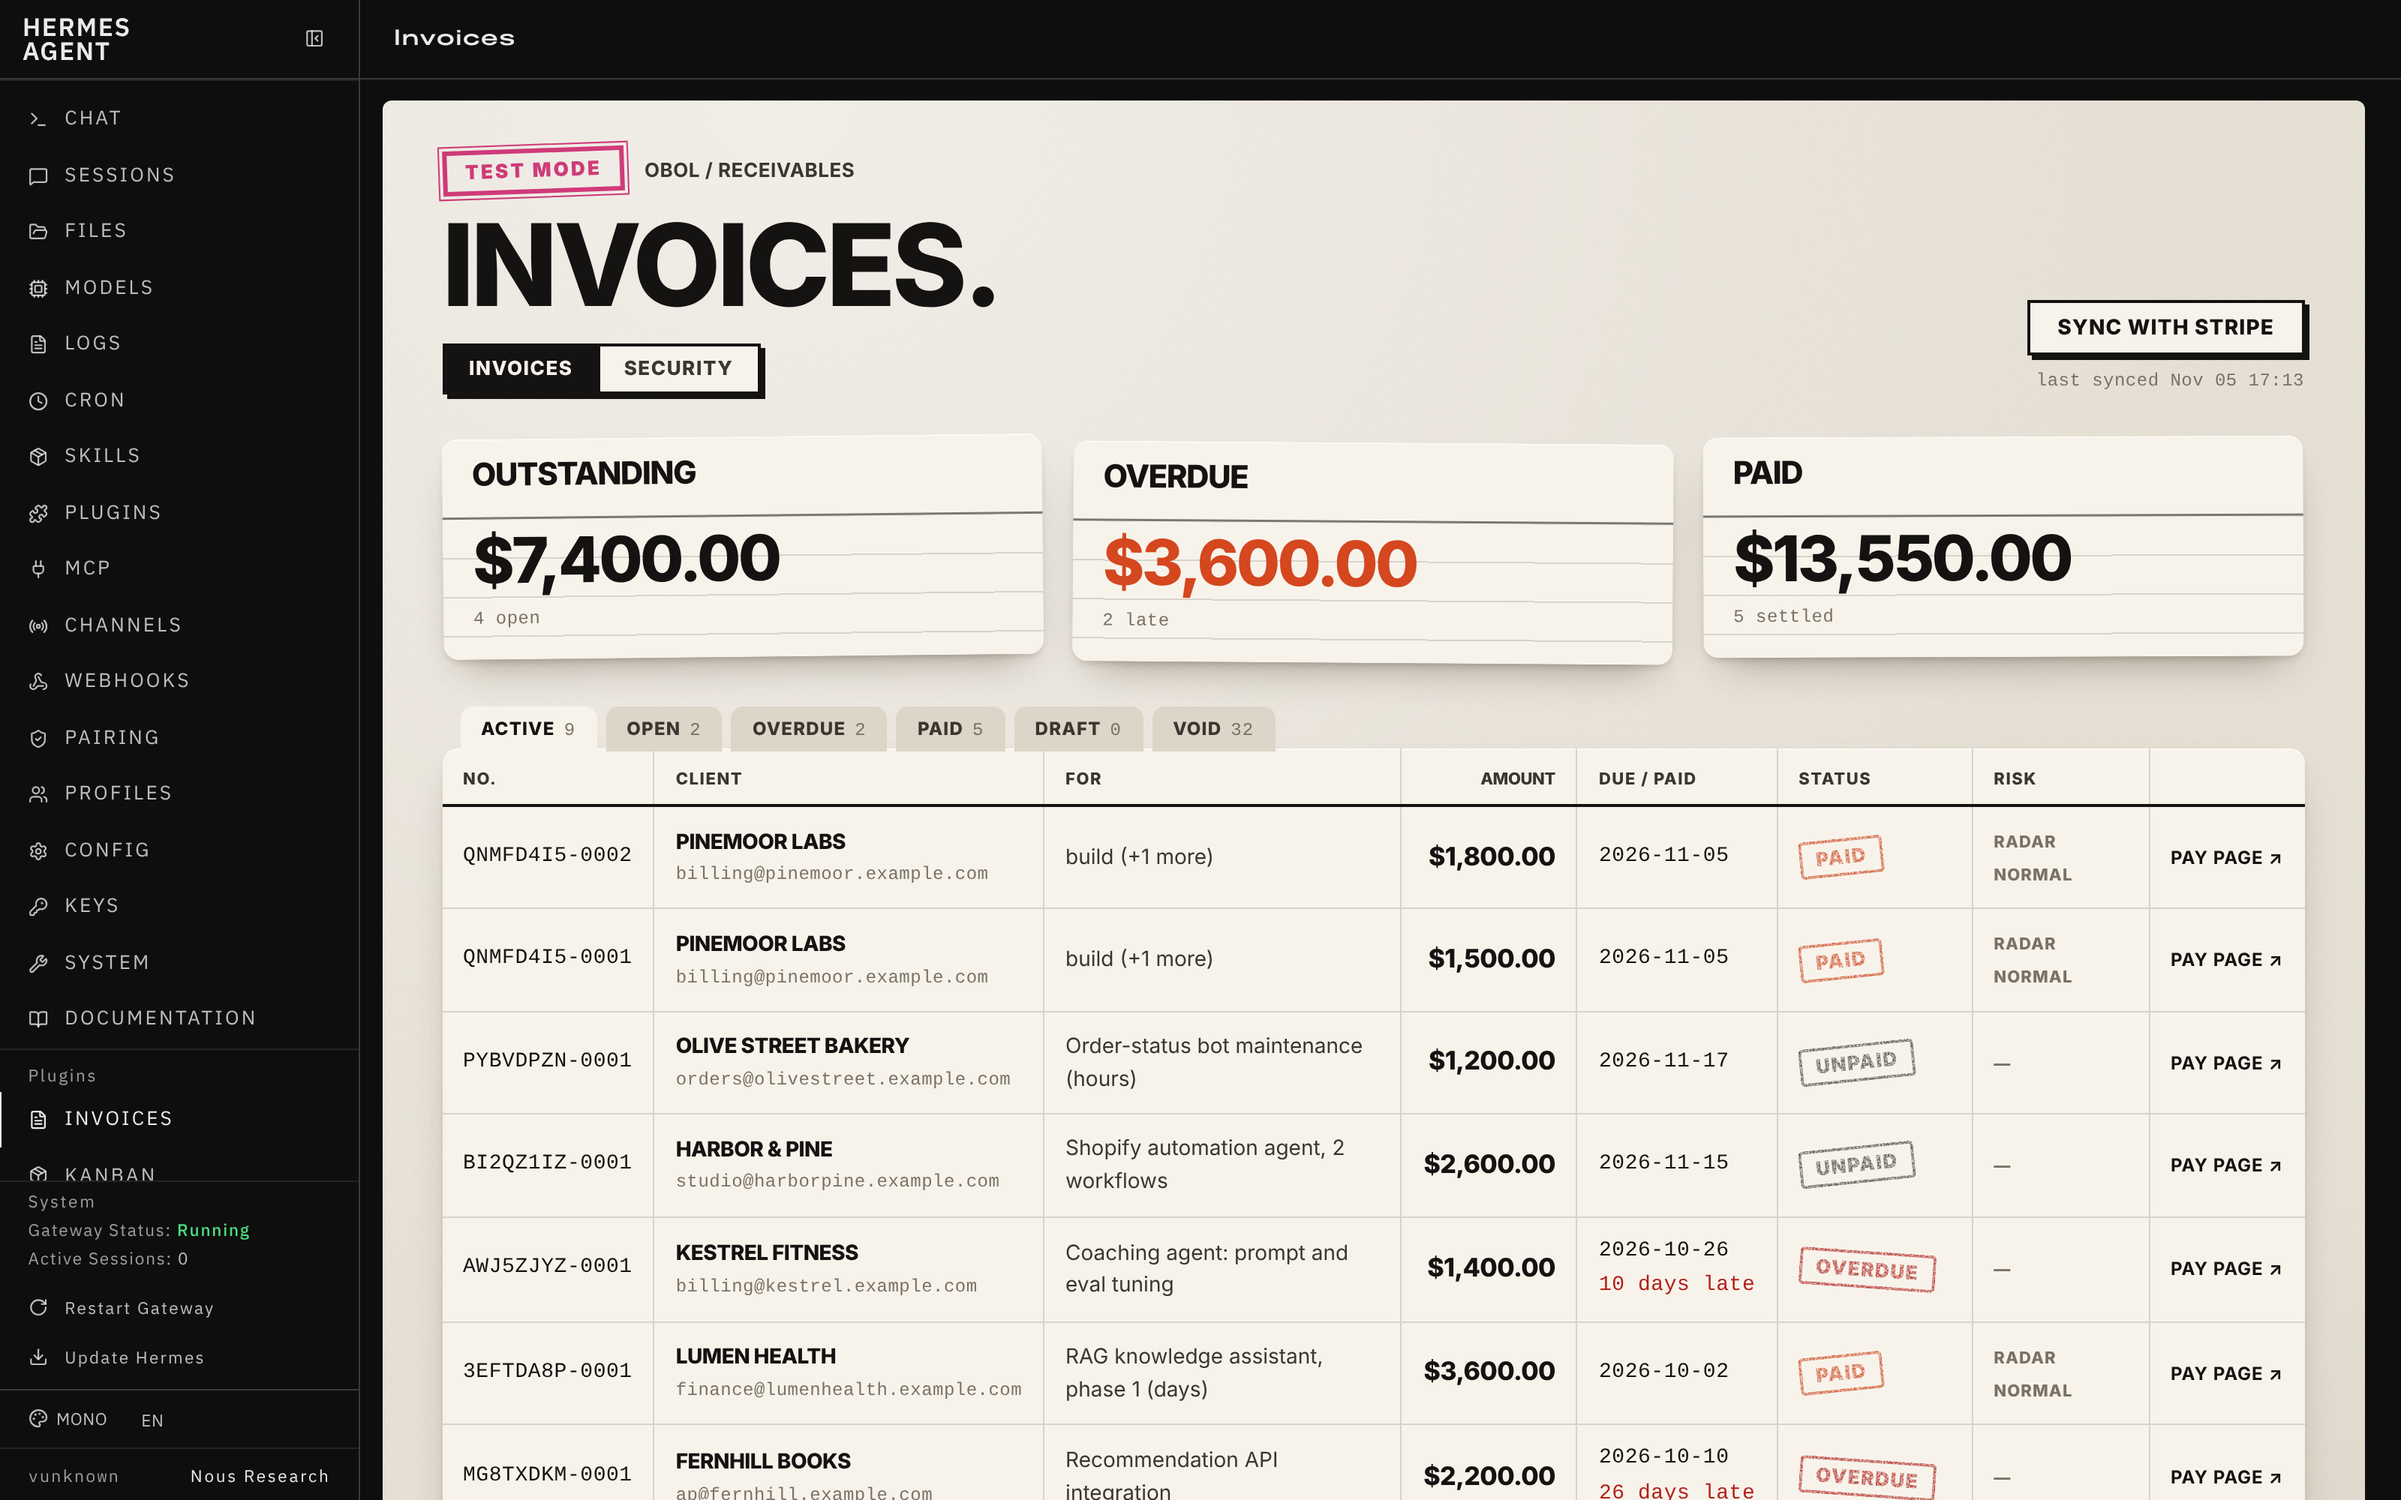
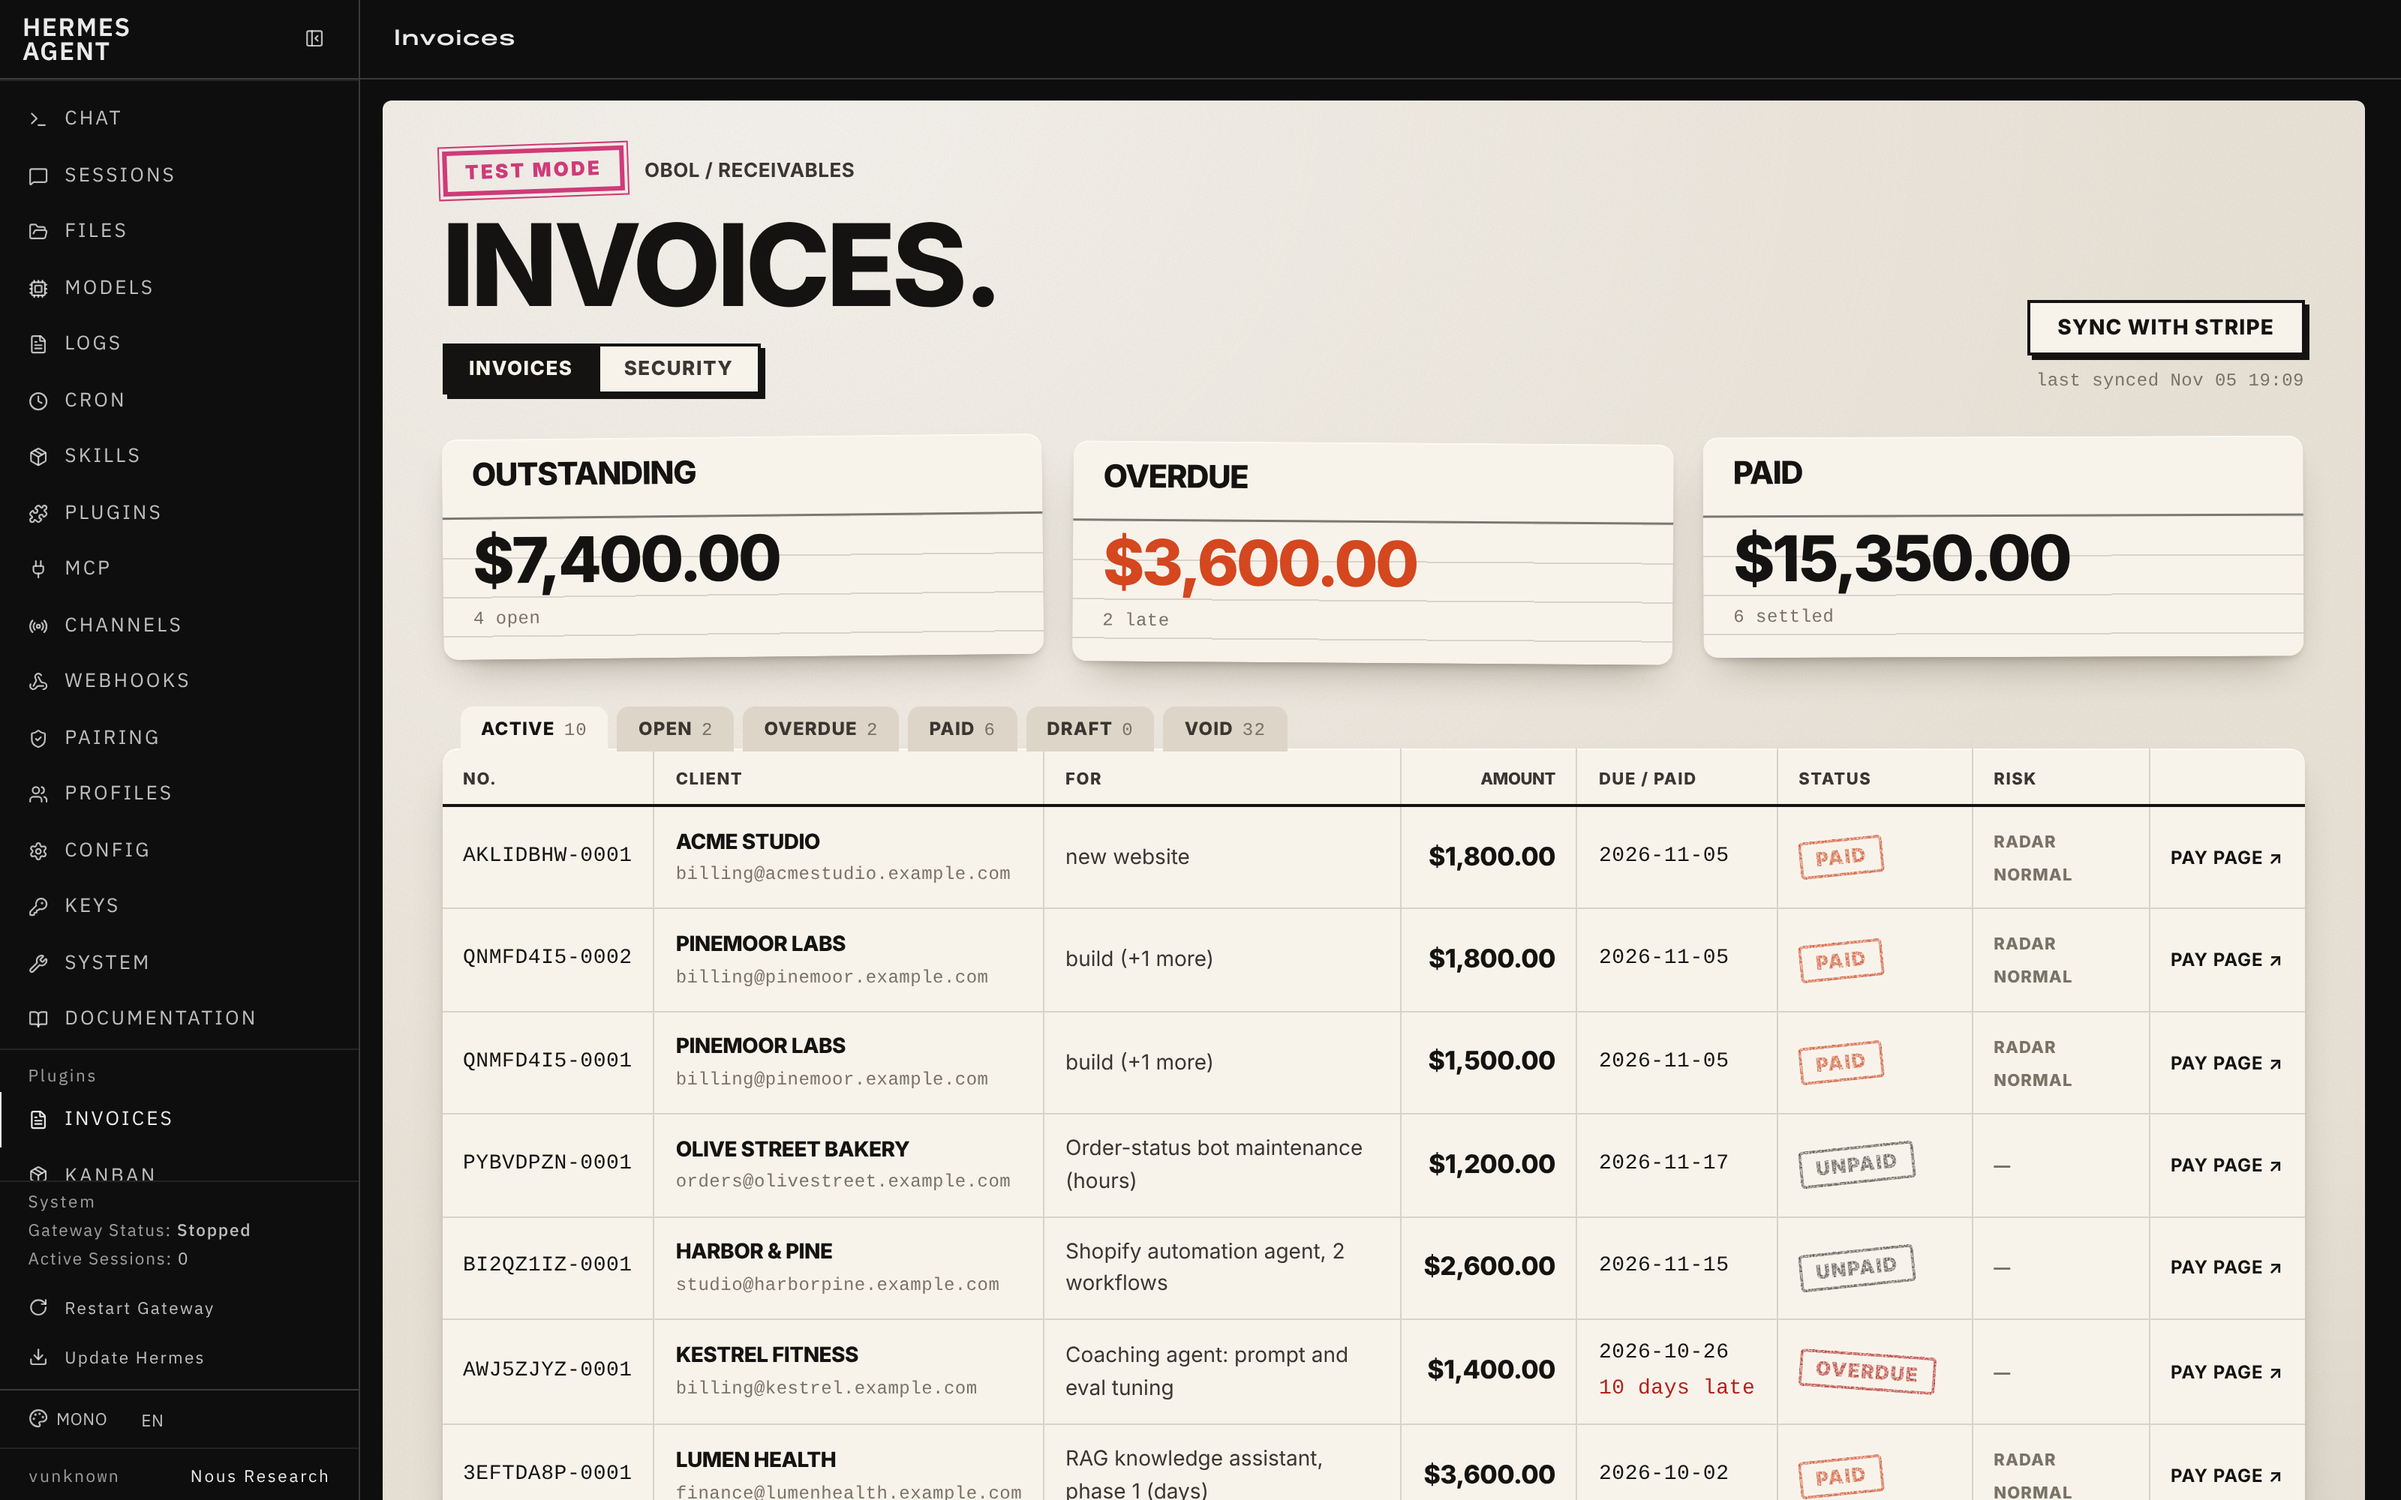
Works anywhere Hermes runs: gateway tests for Telegram, WhatsApp, Slack, email; README section; new screenshots; catalog surfaces

diff --git a/tests/test_gateways.py b/tests/test_gateways.py
@@ -1,0 +1,148 @@
+"""Obol works wherever Hermes does: checked through Hermes's real gateway code paths.
+
+For Telegram, WhatsApp, Slack and email (and the terminal), with Obol loaded by Hermes's plugin manager:
+
+* the ``obol`` toolset is enabled on that platform's default toolset, so the model can call Obol's tools;
+* a Stripe write called from a session on that platform goes through Hermes's real tool dispatch, Obol's
+  ``pre_tool_call`` hook escalates it, and the approval request reaches that chat through the gateway's
+  pending-approval path (the same one dangerous shell commands use); a deny there means nothing is sent;
+* the approval text the platform renders (a button card where the adapter has one, the typed ``/approve``
+  fallback otherwise) carries Obol's summary and risk checks;
+* ``/invoices`` typed in that chat is dispatched by the gateway to Obol's command and answers with the ledger.
+"""
+
+from __future__ import annotations
+
+import asyncio
+import json
+import os
+
+import pytest
+
+pytest.importorskip("gateway.run")
+
+from test_hermes_integration import fake, hermes  # noqa: F401  (fixtures: Obol loaded by Hermes, Stripe fake)
+
+PLATFORMS = ["telegram", "whatsapp", "slack", "email"]
+CREATE = {"customer_email": "billing@acmestudio.example.com", "customer_name": "Acme Studio", "send": True,
+          "line_items": [{"description": "Website build", "amount": 1800}]}
+
+
+@pytest.mark.parametrize("platform", PLATFORMS + ["cli"])
+def test_obol_tools_are_enabled_on_each_surface(hermes, platform):
+    from hermes_cli.tools_config import _get_platform_tools
+    assert "obol" in _get_platform_tools({}, platform)
+
+
+@pytest.fixture
+def gateway_session(monkeypatch):
+    """A gateway session on a given platform, as Hermes binds one for an inbound chat message."""
+    from tools import approval
+    for key in ("HERMES_CRON_SESSION", "HERMES_YOLO_MODE", "HERMES_INTERACTIVE", "HERMES_EXEC_ASK"):
+        monkeypatch.delenv(key, raising=False)
+    approval._gateway_queues.clear()
+    approval._gateway_notify_cbs.clear()
+    approval._session_approved.clear()
+    approval._pending.clear()
+
+    def bind(platform: str, key: str):
+        monkeypatch.setenv("HERMES_GATEWAY_SESSION", "1")
+        monkeypatch.setenv("HERMES_SESSION_KEY", key)
+        monkeypatch.setenv("HERMES_SESSION_PLATFORM", platform)
+        return key
+    yield bind
+    approval._gateway_queues.clear()
+    approval._gateway_notify_cbs.clear()
+
+
+@pytest.mark.parametrize("platform", PLATFORMS)
+def test_stripe_write_asks_for_approval_in_that_chat_and_deny_sends_nothing(hermes, fake, gateway_session, platform):
+    from model_tools import handle_function_call
+    from tools import approval
+    key = gateway_session(platform, f"agent:main:{platform}:dm:client-chat")
+    asked = []
+
+    def notify(data):           # what the gateway turns into the chat's approval prompt
+        asked.append(data)
+        approval.resolve_gateway_approval(key, "deny")
+    approval.register_gateway_notify(key, notify)
+    try:
+        out = json.loads(handle_function_call("obol_create_invoice", dict(CREATE), session_id=key, task_id="t"))
+    finally:
+        approval.unregister_gateway_notify(key)
+    assert len(asked) == 1
+    prompt = json.dumps(asked[0])
+    assert "obol_create_invoice" in prompt and "$1,800.00" in prompt and "Stripe TEST mode" in prompt
+    assert "error" in out and "BLOCKED" in out["error"]
+    assert not [c for c in fake.calls if c[0] == "POST"]          # nothing reached Stripe
+
+
+@pytest.mark.parametrize("platform", PLATFORMS)
+def test_approve_in_that_chat_sends_the_invoice(hermes, fake, gateway_session, platform):
+    from model_tools import handle_function_call
+    from tools import approval
+    key = gateway_session(platform, f"agent:main:{platform}:dm:client-chat-ok")
+    approval.register_gateway_notify(key, lambda data: approval.resolve_gateway_approval(key, "once"))
+    try:
+        out = json.loads(handle_function_call("obol_create_invoice", dict(CREATE), session_id=key, task_id="t"))
+    finally:
+        approval.unregister_gateway_notify(key)
+    assert out["invoice"]["status"] == "open" and out["invoice"]["amount_due"] == "$1,800.00"
+
+
+def _obol_prompt():
+    from hermes_cli.plugins import invoke_hook
+    d = next(r for r in invoke_hook("pre_tool_call", tool_name="obol_create_invoice", args=dict(CREATE), task_id="t")
+             if isinstance(r, dict))
+    return "<obol_create_invoice> (plugin approval rule)", d["message"]
+
+
+def test_button_cards_carry_obols_summary(hermes, fake):
+    """Telegram, Slack and WhatsApp (Cloud API) render approvals as button cards; each keeps Obol's text."""
+    import importlib
+    command, reason = _obol_prompt()
+    for mod in ("plugins.platforms.telegram.adapter", "plugins.platforms.slack.adapter",
+                "plugins.platforms.whatsapp_cloud.adapter"):
+        adapter_mod = importlib.import_module(mod)
+        cls = next(v for k, v in vars(adapter_mod).items() if isinstance(v, type) and k.endswith("Adapter")
+                   and hasattr(v, "_send_exec_approval_prompt") and v.__module__ == mod)
+        card = cls._format_exec_approval(object.__new__(cls), command, reason)
+        assert "obol_create_invoice" in card and "1,800.00" in card, mod
+
+
+def test_text_fallback_carries_obols_summary_and_approve_steps(hermes, fake):
+    """Surfaces without buttons (email, the WhatsApp bridge) get the typed /approve prompt."""
+    from gateway.run import _format_exec_approval_fallback
+    command, reason = _obol_prompt()
+    text = _format_exec_approval_fallback(command, reason, "/")
+    assert "obol_create_invoice" in text and "$1,800.00" in text and "/approve" in text and "/deny" in text
+
+
+@pytest.mark.parametrize("platform", PLATFORMS)
+def test_invoices_command_through_gateway_dispatch(hermes, fake, platform):
+    from gateway.config import GatewayConfig, Platform, PlatformConfig
+    from gateway.platforms.event import MessageEvent
+    from gateway.run import GatewayRunner
+    from gateway.session import SessionSource
+    p = Platform(platform)
+    runner = object.__new__(GatewayRunner)
+    runner.config = GatewayConfig(platforms={p: PlatformConfig(enabled=True, token="***")})
+    runner._draining = False
+    source = SessionSource(platform=p, chat_id="c1", user_id="u1", user_name="you", chat_type="dm")
+    event = MessageEvent(text="/invoices", source=source, message_id="m1")
+    handled, reply, _ = asyncio.run(runner._hm_dispatch_quick_and_plugin_commands(event, source, event.get_command()))
+    assert handled and "OBOL LEDGER" in reply
+
+
+def test_slack_hermes_subcommand_routes_to_invoices(hermes):
+    """In Slack, `/hermes invoices` maps to Obol's command (no Slack app manifest change needed)."""
+    from plugins.platforms.slack.adapter_slash_payload import slash_command_text
+    assert slash_command_text({"command": "/hermes", "text": "invoices overdue"}) == "/invoices overdue"
+
+
+def test_email_body_command_without_subject_is_a_command():
+    """Email turns a message into a command when the body starts with it and there's no new subject
+    (an empty subject, or a reply)."""
+    from gateway.platforms.event import MessageEvent
+    assert MessageEvent(text="/invoices").get_command() == "invoices"
+    assert MessageEvent(text="[Subject: Ledger]\n\n/invoices").get_command() is None

diff --git a/README.md b/README.md
@@ -36,6 +36,26 @@ withheld or blocked, each linked to its invoice. Every security claim below name
 
 ---
 
+## Works anywhere Hermes runs
+
+Obol is a Hermes plugin, so it works in every chat Hermes is connected to. Verified for:
+
+| Surface | Tools | Approval prompt | `/invoices` |
+|---|---|---|---|
+| **Telegram** | ✓ | buttons | ✓ |
+| **WhatsApp** | ✓ | buttons (Cloud API) or typed `/approve` (bridge) | ✓ |
+| **Slack** | ✓ | buttons | ✓ (also `/hermes invoices`) |
+| **Email** | ✓ | typed `/approve` | ✓ (body starts with `/invoices`, no new subject) |
+| **Terminal** (CLI/TUI) | ✓ | approval panel | ✓ |
+
+How it's verified: `tests/test_gateways.py` loads Obol through Hermes's plugin manager and, for each surface,
+checks that the `obol` toolset is enabled on that platform; that a Stripe write called from a session on that
+platform goes through Hermes's real tool dispatch and asks for approval in that chat through the gateway's
+pending-approval path (deny sends nothing, approve sends the invoice); that the platform's approval card or
+typed fallback carries Obol's summary; and that `/invoices` typed there is dispatched to Obol.
+
+---
+
 ## Hermes surfaces used
 
 | Surface | What Obol registers |
@@ -44,7 +64,7 @@ withheld or blocked, each linked to its invoice. Every security claim below name
 | **Hooks** | `pre_tool_call` escalates **every** Stripe write to Hermes's approval prompt with amount, client, mode and risk findings, and refuses live keys and unattended (cron) writes. Other plugins' tools are left alone |
 | **Plugin LLM** (`ctx.llm.complete_structured`) | Extracts client, amounts, line items and due date from a forwarded message, using your Hermes model and credentials |
 | **Dashboard** (`dashboard/`) | *Invoices* tab (totals, ledger table, status stamps, Radar and risk columns) and *Security* view (threats by type and over time, log integrity, links to invoices), served from a local cache |
-| **Slash command** | `/invoices [open\|overdue\|paid\|draft\|sync]` in the CLI, TUI, Desktop, Telegram, Discord, Slack and every other gateway |
+| **Slash command** | `/invoices [open\|overdue\|paid\|draft\|sync]` in the terminal and every chat gateway (see [Works anywhere Hermes runs](#works-anywhere-hermes-runs)) |
 | **CLI** | `hermes obol doctor` (key mode, Stripe reachable, **log integrity**), `hermes obol sync`, `hermes obol ledger` |
 | **Automation blueprint** | *Chase overdue invoices*: a weekly report of who to chase. It never sends anything on its own |
 | **Skill** | `obol:invoicing`: how to invoice, handle forwarded messages and treat risk flags |
